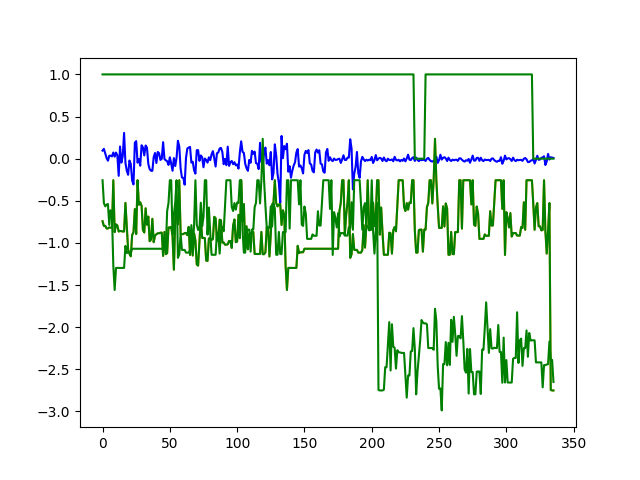
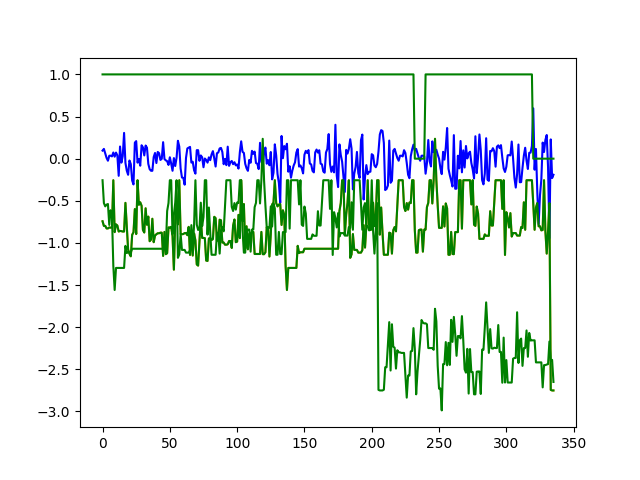
8.21 挪用没用

Changed region(s): [[0.5, 0.25, 0.875, 0.4375]]

diff --git a/models/Source_Network.py b/models/Source_Network.py
@@ -141,13 +141,19 @@ class Refiner_block(nn.Module):
         # # print(torch.mean((out_1 - x) ** 2, dim=[2]).shape, torch.mean((out_1 - x) ** 2, dim=[2])[2]) 
         #* change here 
         rec_score = torch.mean((out_1 - x) ** 2, dim=[2])
-        print(out_1[4].median(), x[4].median())
+        # print(out_1[4].median(), x[4].median())
         q = torch.tensor([0.25, 0.5, 0.75], device=out_1.device) 
         q1, q2, q3 = torch.quantile(rec_score, q, dim=-1) 
         tmp = out_1 - x 
-        length_mask = torch.zeros_like(tmp) 
-        length_mask[:, int(tmp.shape[1] * self.args.rec_length_ratio):, :] = 1
-        tmp = (rec_score > 1).unsqueeze(-1) * tmp * length_mask
+        length_mask = torch.ones_like(tmp) 
+        length_mask[:, -int(tmp.shape[1] * (1 - self.args.rec_length_ratio)):, :] = 0
+        # tmp = (rec_score > 1).unsqueeze(-1) * tmp * length_mask
+        min_idx = torch.argmin(rec_score, dim=-1, keepdim=True)
+        result_tensor = x[torch.arange(x.shape[0]), min_idx.view(-1)].unsqueeze(1).repeat(1, x.shape[1], 1)
+        # print("wee", result_tensor.shape)
+        tmp = (result_tensor - x)#.detach()  #? whether need that? 
+        tmp = (rec_score > (q3 + 1.1 * (q3 - q1)).unsqueeze(-1)).unsqueeze(-1) * tmp * length_mask
+        
         self.args.mk = (rec_score < q2.unsqueeze(-1)).unsqueeze(-1)
         if self.args.train == 0 and self.args.debugger == 1: 
             print(rec_score[4].shape, rec_score[4], (q3 + self.args.theta * (q3 - q1))[4])
@@ -157,6 +163,7 @@ class Refiner_block(nn.Module):
         
         # tmp = (rec_score > q3 ).unsqueeze(-1) * tmp
         out_1 = x + tmp
+        # print(torch.sum(out_1 != x))
         # tmp[rec_score < q3 + 1.5 * (q3 - q1)] = 0 
         # out_1 = out_1 + tmp
         

diff --git a/main.py b/main.py
@@ -950,7 +950,7 @@ def parse_args():
     parser.add_argument("--beta", type=float, default=1.0)
     parser.add_argument("--gamma", type=float, default=0.15)
     parser.add_argument("--theta", type=float, default=1.5)
-    parser.add_argument("--rec_length_ratio", type=float, default=0.5)
+    parser.add_argument("--rec_length_ratio", type=float, default=0.65)
     parser.add_argument("--feature_jittering", type=int, default=0)
     parser.add_argument("--rec_intra_feature", type=int, default=0)
     parser.add_argument("--rec_ori", type=int, default=0)
